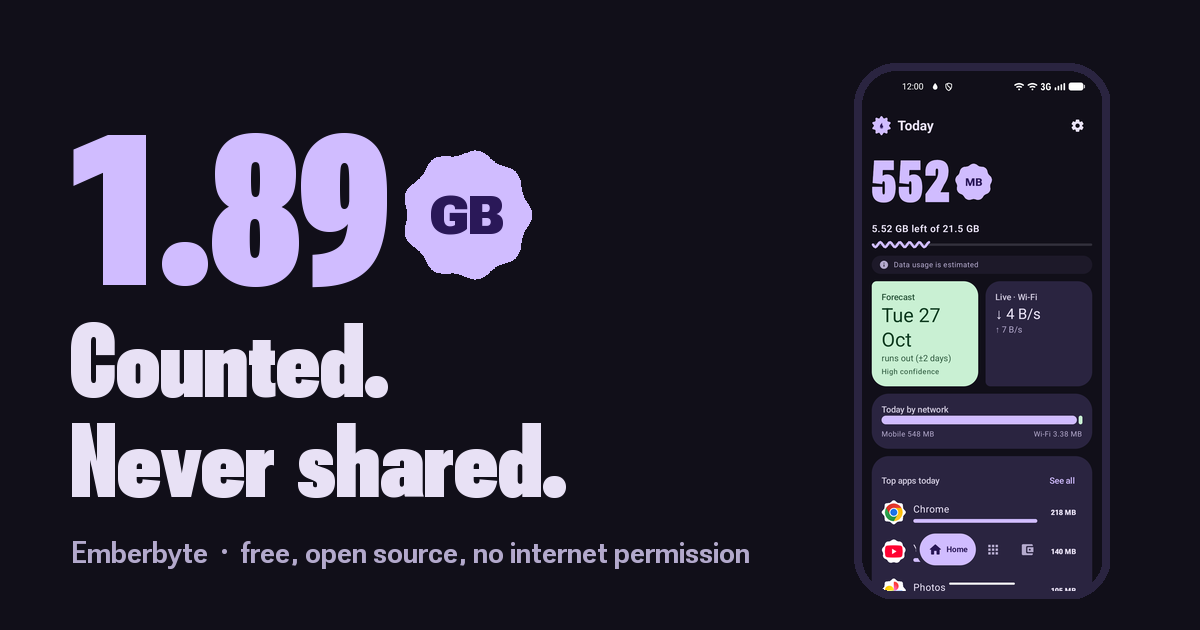
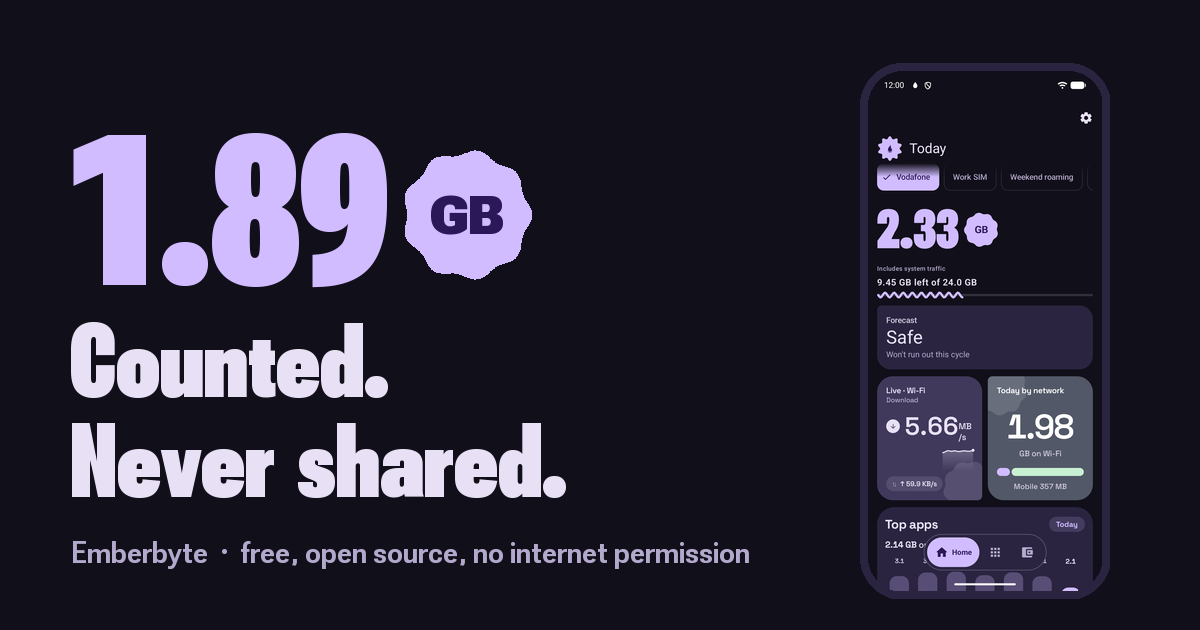
docs: replace the 1.0.0 screenshots with real 1.0.3 captures
The README, the F-Droid listing and the website still showed the 1.0.0 UI.
New set from the 1.0.3 release build on an emulator (seeded demo data, live
speed from real traffic): Home, Apps, Plans, what-if, new-plan flow, app
detail, themes and a light-mode Home. History is left out for now because its
unselected bars are barely visible on dark themes.

Changed region(s): [[0.7092, 0.0905, 0.925, 0.9349], [0.8325, 0.1206, 0.8942, 0.1508], [0.8942, 0.181, 0.925, 0.2111]]

diff --git a/site/index.html b/site/index.html
@@ -63,9 +63,9 @@
       </ul>
     </div>
     <div class="phones" aria-hidden="true">
-      <div class="phone b"><img src="assets/screens/2_apps.webp" alt="" width="640" height="1386"></div>
-      <div class="phone a"><img src="assets/screens/1_home.webp" alt="" width="640" height="1386"></div>
-      <div class="phone c"><img src="assets/screens/3_plans.webp" alt="" width="640" height="1386"></div>
+      <div class="phone b"><img src="assets/screens/2_apps.webp" alt="" width="640" height="1422"></div>
+      <div class="phone a"><img src="assets/screens/1_home.webp" alt="" width="640" height="1422"></div>
+      <div class="phone c"><img src="assets/screens/3_plans.webp" alt="" width="640" height="1422"></div>
     </div>
   </div>
 </section>
@@ -110,13 +110,14 @@
     </div>
 
     <div class="gallery" tabindex="0" aria-label="Screenshots">
-      <figure><img src="assets/screens/1_home.webp" alt="Home screen with today's usage as a large number" width="640" height="1386" loading="lazy"><figcaption>Home</figcaption></figure>
-      <figure><img src="assets/screens/2_apps.webp" alt="Apps ranked by data used" width="640" height="1386" loading="lazy"><figcaption>Apps</figcaption></figure>
-      <figure><img src="assets/screens/3_plans.webp" alt="Plans shown as a bento of cards" width="640" height="1386" loading="lazy"><figcaption>Plans</figcaption></figure>
-      <figure><img src="assets/screens/4_plan_flow.webp" alt="Starting a plan that is already under way" width="640" height="1386" loading="lazy"><figcaption>Start a plan mid-cycle</figcaption></figure>
-      <figure><img src="assets/screens/5_themes.webp" alt="Twelve themes to choose from" width="640" height="1386" loading="lazy"><figcaption>Twelve themes</figcaption></figure>
-      <figure><img src="assets/screens/6_history.webp" alt="History with a daily chart" width="640" height="1386" loading="lazy"><figcaption>History</figcaption></figure>
-      <figure><img src="assets/screens/7_app_detail.webp" alt="One app's data in detail" width="640" height="1386" loading="lazy"><figcaption>One app</figcaption></figure>
+      <figure><img src="assets/screens/1_home.webp" alt="Home with today's usage as a large number, the plan bar, a live speed tile and the split by network" width="640" height="1422" loading="lazy"><figcaption>Home</figcaption></figure>
+      <figure><img src="assets/screens/2_apps.webp" alt="Apps ranked by data used, with the most used app on top" width="640" height="1422" loading="lazy"><figcaption>Apps</figcaption></figure>
+      <figure><img src="assets/screens/3_plans.webp" alt="Plans: a front plan with ring, time and data tracks, and the other plans as tiles" width="640" height="1422" loading="lazy"><figcaption>Plans</figcaption></figure>
+      <figure><img src="assets/screens/4_what_if.webp" alt="A what-if that adds 10 GB to a plan that would run out early" width="640" height="1422" loading="lazy"><figcaption>What if</figcaption></figure>
+      <figure><img src="assets/screens/5_plan_flow.webp" alt="The new-plan flow, step 2: how much data do you get" width="640" height="1422" loading="lazy"><figcaption>New plan in five steps</figcaption></figure>
+      <figure><img src="assets/screens/6_app_detail.webp" alt="One app's data in detail: rank, trend, daily bars with Wi-Fi and mobile" width="640" height="1422" loading="lazy"><figcaption>One app</figcaption></figure>
+      <figure><img src="assets/screens/7_themes.webp" alt="Twelve themes to choose from" width="640" height="1422" loading="lazy"><figcaption>Twelve themes</figcaption></figure>
+      <figure><img src="assets/screens/8_light.webp" alt="Home in a light theme" width="640" height="1422" loading="lazy"><figcaption>Light mode</figcaption></figure>
     </div>
   </div>
 </section>

diff --git a/site/tools/make-assets.py b/site/tools/make-assets.py
@@ -41,7 +41,7 @@ def font():
 
 def screens():
     from PIL import Image
-    for name in ["1_home", "2_apps", "3_plans", "4_plan_flow", "5_themes", "6_history", "7_app_detail"]:
+    for name in ["1_home", "2_apps", "3_plans", "4_what_if", "5_plan_flow", "6_app_detail", "7_themes", "8_light"]:
         img = Image.open(SHOTS / f"{name}.png").convert("RGB")
         w = 640
         img = img.resize((w, round(img.height * w / img.width)), Image.LANCZOS)

diff --git a/README.md b/README.md
@@ -14,15 +14,15 @@ encrypted local backups.
 
 ## Screenshots
 
-| Home | Apps | Plans | New plan |
+| Home | Apps | Plans | What if |
 |:---:|:---:|:---:|:---:|
-| <img src="fastlane/metadata/android/en-US/images/phoneScreenshots/1_home.png" width="200" alt="Home: today and the plan" /> | <img src="fastlane/metadata/android/en-US/images/phoneScreenshots/2_apps.png" width="200" alt="Apps ranked by usage" /> | <img src="fastlane/metadata/android/en-US/images/phoneScreenshots/3_plans.png" width="200" alt="Plans as a bento" /> | <img src="fastlane/metadata/android/en-US/images/phoneScreenshots/4_plan_flow.png" width="200" alt="Starting a plan mid-cycle" /> |
+| <img src="fastlane/metadata/android/en-US/images/phoneScreenshots/1_home.png" width="200" alt="Home: today, the plan bar, live speed and the split by network" /> | <img src="fastlane/metadata/android/en-US/images/phoneScreenshots/2_apps.png" width="200" alt="Apps ranked by usage" /> | <img src="fastlane/metadata/android/en-US/images/phoneScreenshots/3_plans.png" width="200" alt="Plans: a front plan and tiles" /> | <img src="fastlane/metadata/android/en-US/images/phoneScreenshots/4_what_if.png" width="200" alt="A what-if that adds 10 GB to a plan" /> |
 
-| Themes | History | App detail |
-|:---:|:---:|:---:|
-| <img src="fastlane/metadata/android/en-US/images/phoneScreenshots/5_themes.png" width="200" alt="Twelve themes" /> | <img src="fastlane/metadata/android/en-US/images/phoneScreenshots/6_history.png" width="200" alt="History" /> | <img src="fastlane/metadata/android/en-US/images/phoneScreenshots/7_app_detail.png" width="200" alt="One app in detail" /> |
+| New plan | App detail | Themes | Light mode |
+|:---:|:---:|:---:|:---:|
+| <img src="fastlane/metadata/android/en-US/images/phoneScreenshots/5_plan_flow.png" width="200" alt="The new-plan flow in five steps" /> | <img src="fastlane/metadata/android/en-US/images/phoneScreenshots/6_app_detail.png" width="200" alt="One app in detail" /> | <img src="fastlane/metadata/android/en-US/images/phoneScreenshots/7_themes.png" width="200" alt="Twelve themes" /> | <img src="fastlane/metadata/android/en-US/images/phoneScreenshots/8_light.png" width="200" alt="Home in a light theme" /> |
 
-These are real captures of the 1.0.0 release build (Dusk dark theme, demo data). The same images are used for the F-Droid listing.
+These are real captures of the 1.0.3 release build (Dusk theme, demo data on an emulator). The same images are used for the F-Droid listing.
 
 ---
 
